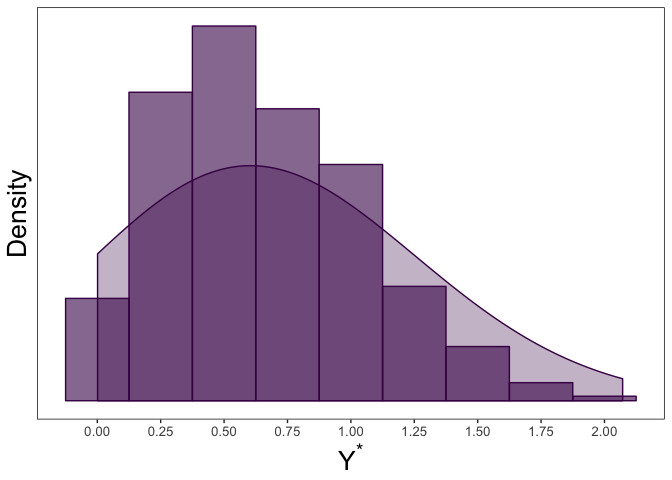
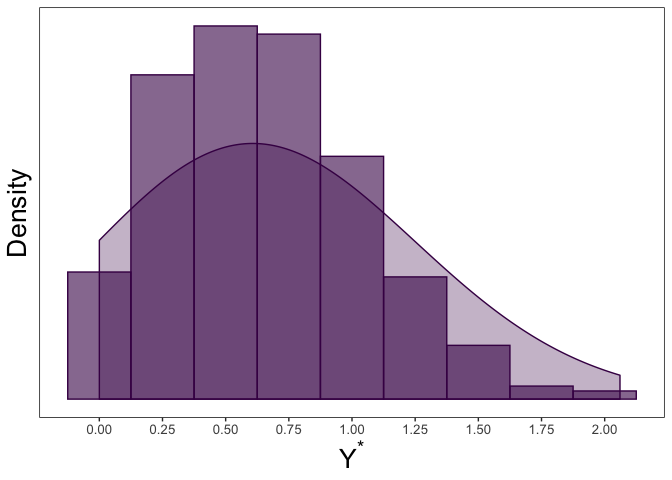
updating README files to demonstrate how to build vignettes when installing

diff --git a/README.md b/README.md
@@ -11,6 +11,8 @@ You can install ggplot.spaghetti from github via the devtools package with:
 ``` r
 install.packages("devtools")
 devtools::install_github("williazo/tcensReg")
+#to install the package with the accompaining vignette use the command below
+devtools::install_github("williazo/tcensReg", build_opts = c("--no-resave-data", "--no-manual"))
 ```
 
 Example 1: Single Population
@@ -26,6 +28,11 @@ where *a* denotes the value of the left-truncation. In our case we will assume a
 
 ``` r
 library(msm) #we will use this package to generate random values from the truncated normal distribution
+```
+
+    ## Warning: package 'msm' was built under R version 3.5.2
+
+``` r
 mu <- 0.5
 sigma <- 0.5
 a <- 0
@@ -34,7 +41,7 @@ y_star <- msm::rtnorm(n = 1000, mean = mu, sd = sigma, lower = a)
 range(y_star) #note that the lowerbound will always be non-negative
 ```
 
-    ## [1] 0.001101319 2.071706840
+    ## [1] 0.0001174543 2.0605791183
 
 Next, we can imagine a scenario where we have an imprecise measurement of *Y*<sup>\*</sup> leading to censoring. In our case we assume that values below *ν* are censored such that *a* &lt; *ν*. This creates the random variable *Y*, where
 
@@ -48,7 +55,7 @@ y <- ifelse(y_star<=nu, nu, y_star)
 sum(y==nu)/length(y) #calculating the number of censored observations
 ```
 
-    ## [1] 0.162
+    ## [1] 0.16
 
 ``` r
 dt <- data.frame(y_star, y) #collecting the uncensored and censored data together
@@ -67,22 +74,22 @@ tcensReg(y ~ 1, data = dt, a = 0, v = 0.25)
 
     ## $theta
     ##               Estimate
-    ## (Intercept)  0.5293758
-    ## log_sigma   -0.7188691
+    ## (Intercept)  0.5371688
+    ## log_sigma   -0.7407614
     ## 
     ## $iterations
     ## [1] 5
     ## 
     ## $initial_ll
-    ## [1] -650.1115
+    ## [1] -637.1835
     ## 
     ## $final_ll
-    ## [1] -637.1345
+    ## [1] -625.2293
     ## 
     ## $var_cov
     ##               (Intercept)     log_sigma
-    ## (Intercept)  0.0006970955 -0.0006984901
-    ## log_sigma   -0.0006984901  0.0014663579
+    ## (Intercept)  0.0006278282 -0.0006358934
+    ## log_sigma   -0.0006358934  0.0014175198
 
 Note that the this will return parameter estimates, variance-covariance matrix, the number of iterations until convergence, and the initial/final log-likelihood values.
 
@@ -117,8 +124,8 @@ knitr::kable(results_df, format = "markdown", digits = 4)
 |            |      mu|   sigma|  mu\_bias|  sigma\_bias|
 |:-----------|-------:|-------:|---------:|------------:|
 | Truth      |  0.5000|  0.5000|    0.0000|       0.0000|
-| tcensReg   |  0.5294|  0.4873|    0.0294|       0.0127|
-| Normal MLE |  0.6733|  0.3703|    0.1733|       0.1297|
-| Tobit      |  0.6356|  0.4272|    0.1356|       0.0728|
+| tcensReg   |  0.5372|  0.4768|    0.0372|       0.0232|
+| Normal MLE |  0.6715|  0.3654|    0.1715|       0.1346|
+| Tobit      |  0.6350|  0.4209|    0.1350|       0.0791|
 
 Other methods result in significant bias for both *μ* and *σ*.
